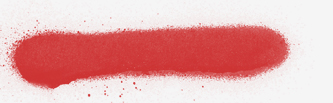
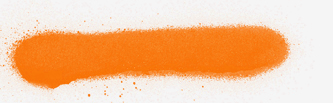
Color change

diff --git a/index.html b/index.html
@@ -448,7 +448,7 @@
  <!-- Buy tickect section -->
  <div class="footer__cta">
     <a href="#tickets" class="footer__cta--link">
-        <img src="./img/THE ROLL UP ATL WEB - BUY TICKETS STATIC BUTTON.png" alt="BUY TICKETS" class="footer__cta--image">
+        <img src="./img/buy-tickets.png" alt="BUY TICKETS" class="footer__cta--image">
     </a>
 </div>
 <!-- script tag -->
